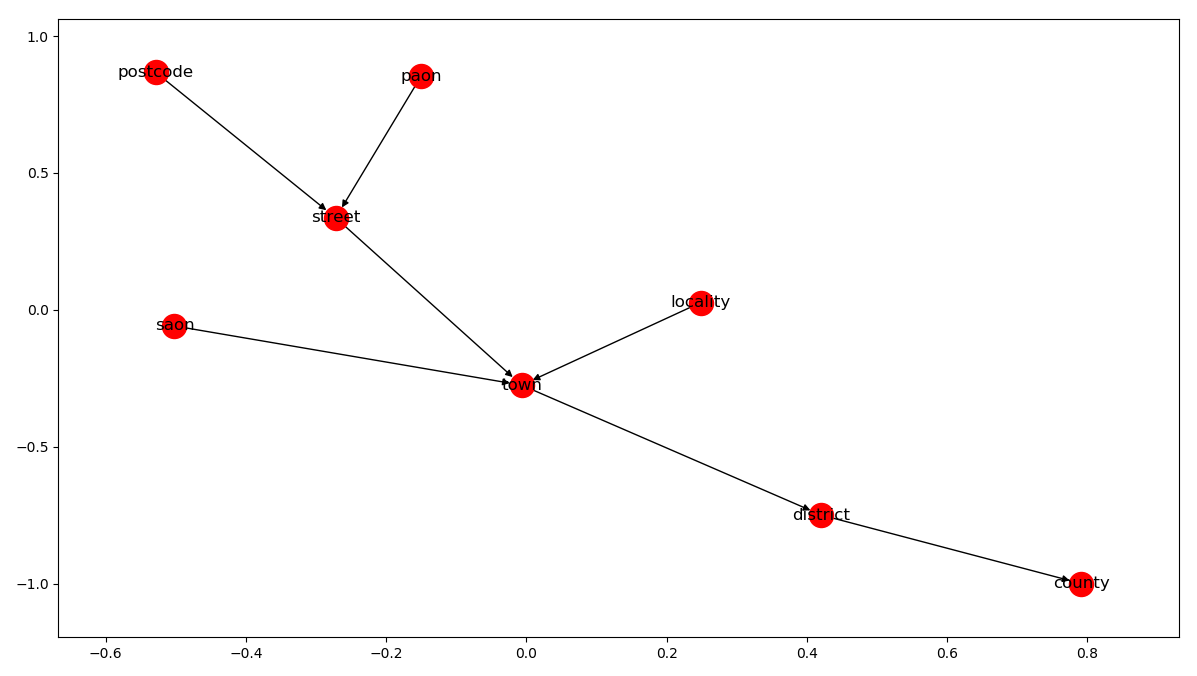
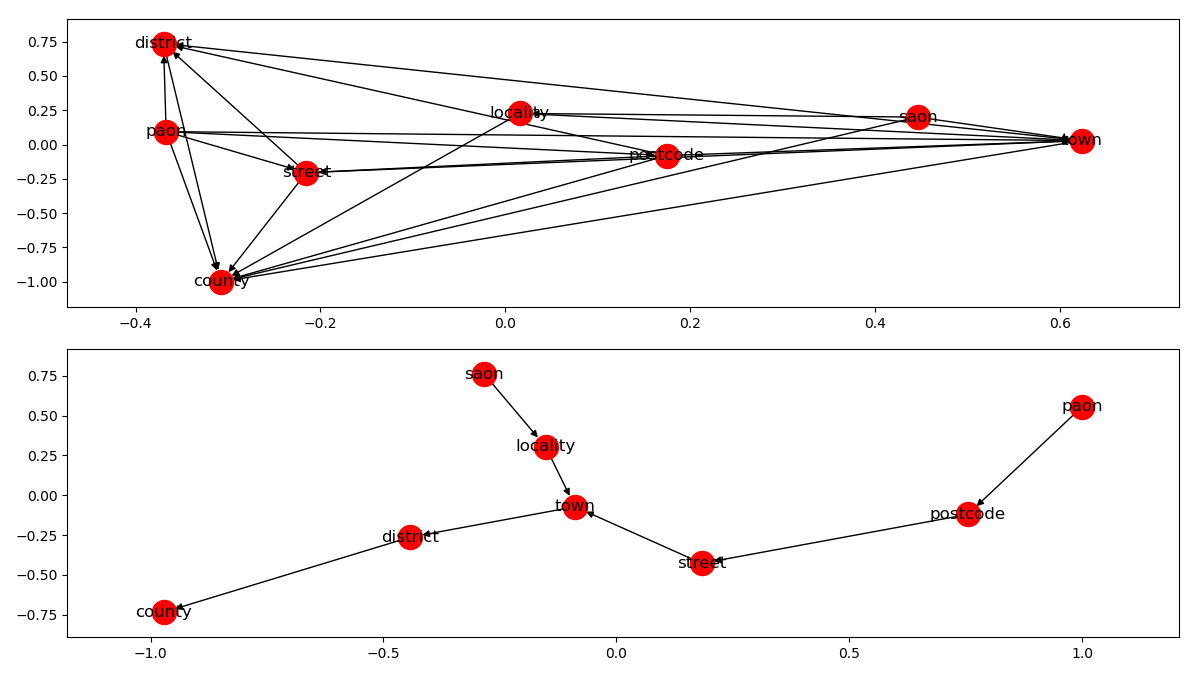
update

diff --git a/mylib/mylib/data.py b/mylib/mylib/data.py
@@ -85,7 +85,7 @@ def plot_transitive_reduction_of_condensation(edges):
     import networkx as nx
     g = nx.DiGraph()
     for x in edges:
-        g.add_edge(x[0], x[1])
+        g.add_edge(x[0], x[1], weight=x[2])
     gg = nx.condensation(g)
     mapping = {i: '\n'.join(gg.nodes[i]['members']) for i in range(len(gg.nodes))}
     ggg = nx.relabel.relabel_nodes(gg, mapping)
@@ -93,6 +93,9 @@ def plot_transitive_reduction_of_condensation(edges):
     import matplotlib.pyplot as plt
     plt.clf()
     plt.ion()
+    plt.subplot(211)
+    nx.draw_networkx(ggg)
+    plt.subplot(212)
     nx.draw_networkx(gggg)
     plt.tight_layout()
     plt.show()
